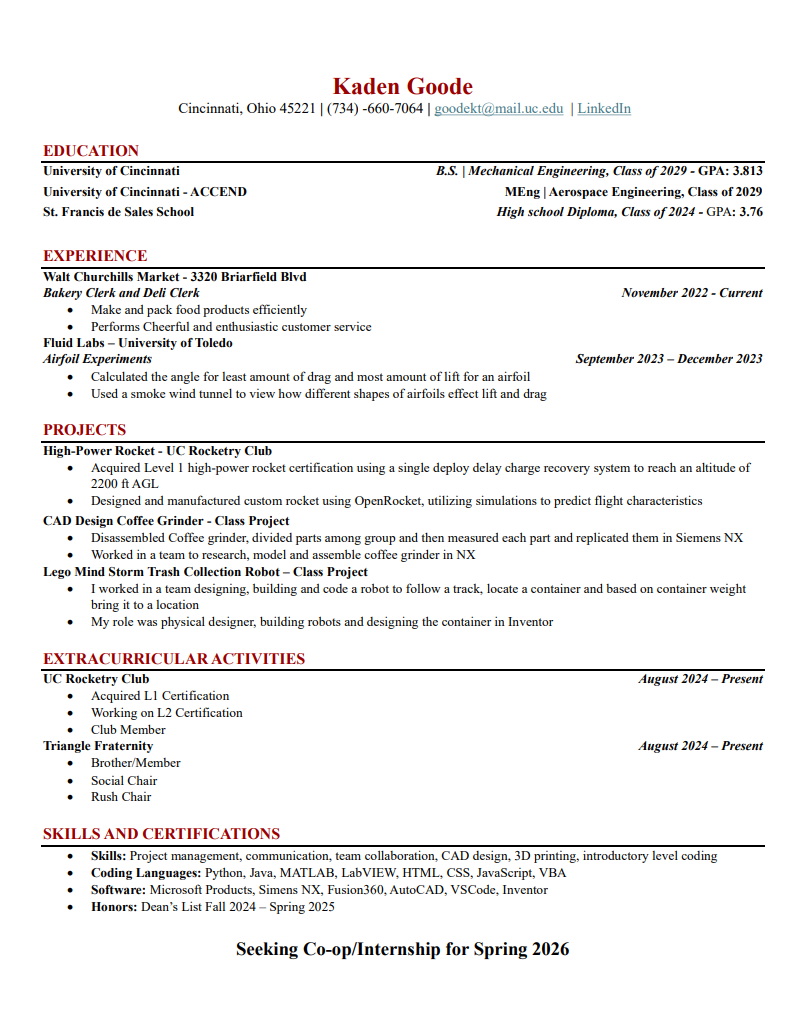
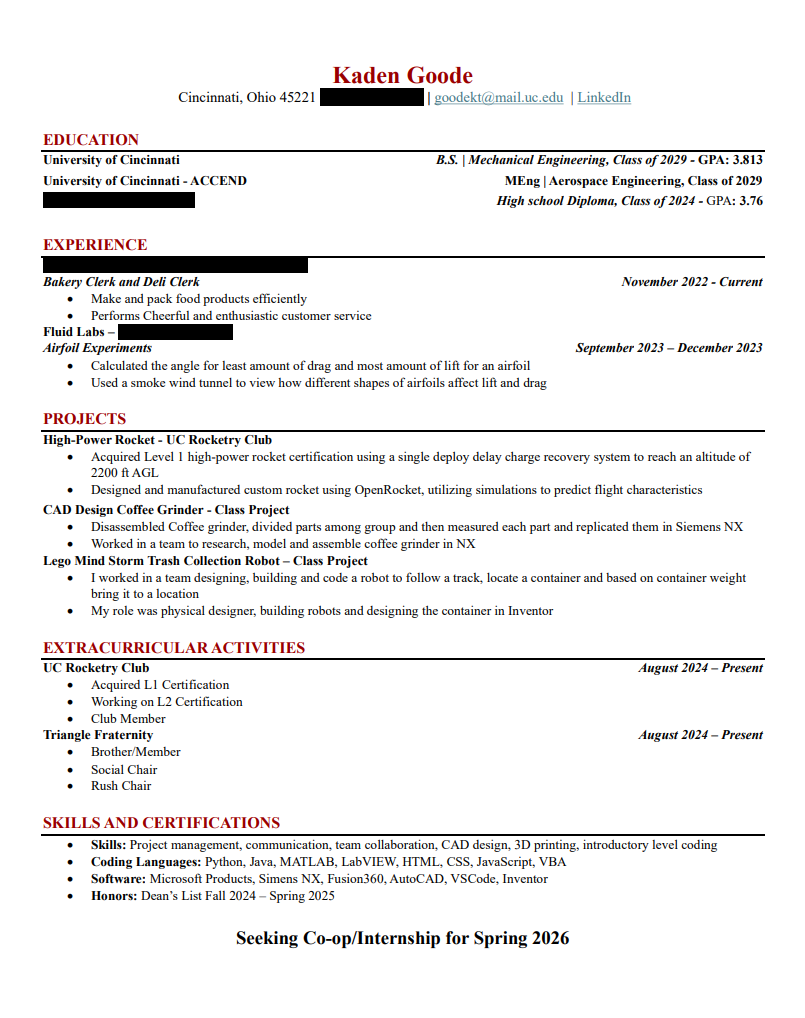
made more aesthetic changes

Changed region(s): [[0.0311, 0.0614, 0.9627, 0.9524], [0.7764, 0.7066, 0.9627, 0.7681], [0.7143, 0.338, 0.9627, 0.3687]]

diff --git a/doc.html b/doc.html
@@ -32,6 +32,7 @@
       <figure class="doc">
         <img src="images/resume.png" alt="Resume">
       </figure>
+      <p>This resume is redacted. Email me (link at in footer) for official resume</p>
       </section>
       
       <section class="resume">
